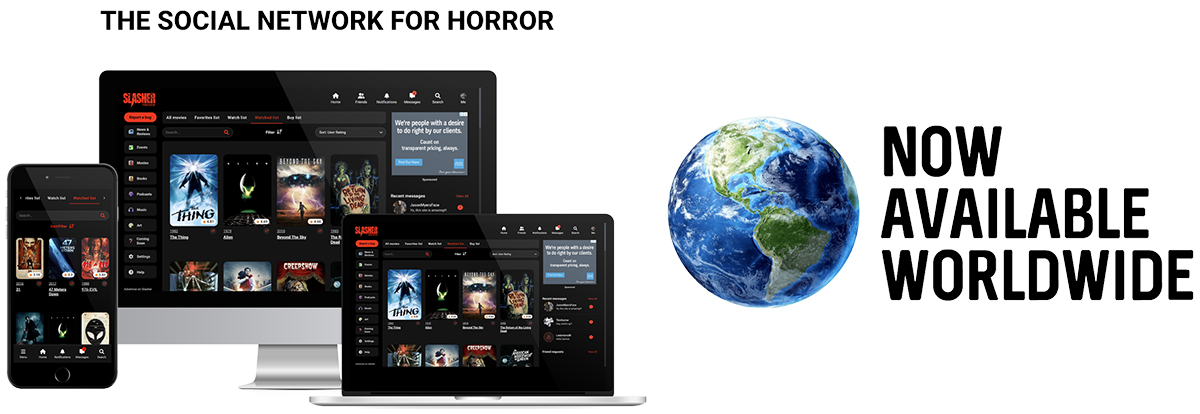
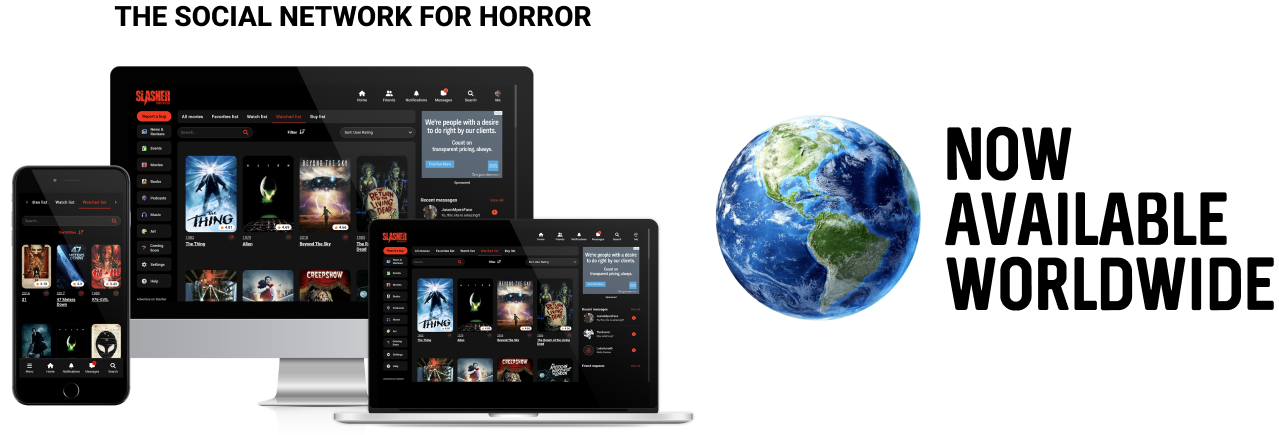
center now available section

Changed region(s): [[0.0, 0.1449, 0.555, 0.9855], [0.555, 0.2609, 1.0, 0.7536], [0.0617, 0.0, 0.4625, 0.087]]

diff --git a/src/routes/public-home-page/public-home-body/NowAvailableSection.tsx b/src/routes/public-home-page/public-home-body/NowAvailableSection.tsx
@@ -6,7 +6,7 @@ function NowAvailableSection() {
   return (
     <div className="mx-3 mx-lg-4 px-2">
       <Container>
-        <div className="bg-primary rounded-3 p-4 text-black">
+        <div className="bg-primary d-flex justify-content-center rounded-3 p-4 text-black">
           <Image fluid src={NowAvailableWorldwide} alt="Slasher is now available worldwide" />
         </div>
       </Container>
